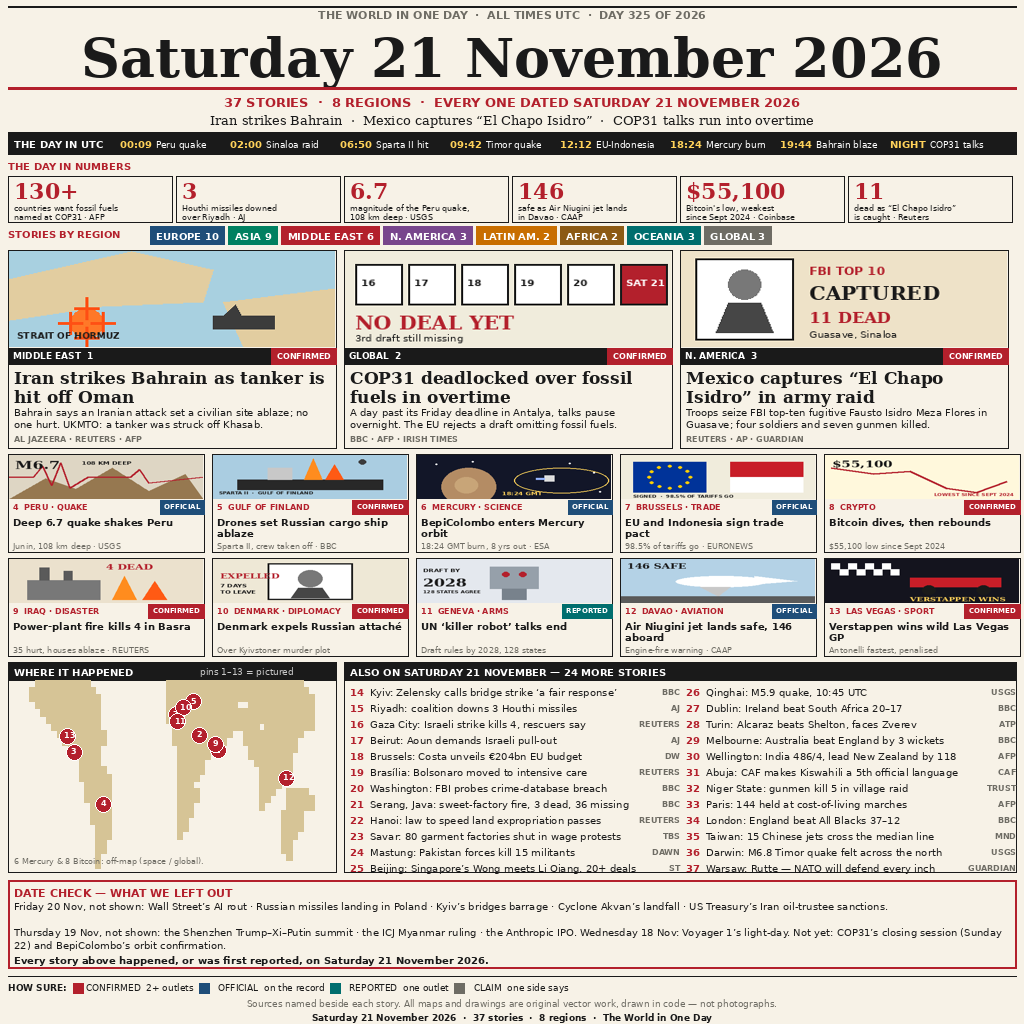
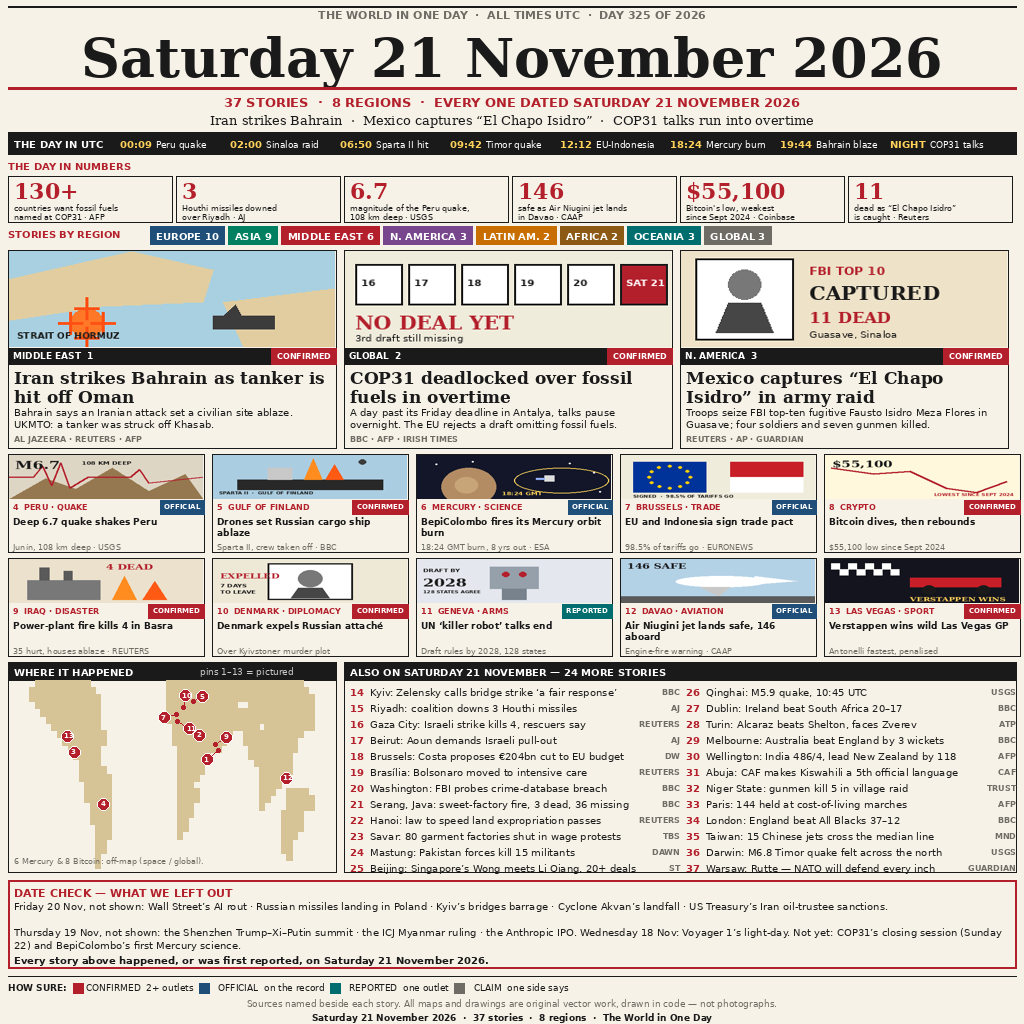
v4: Gemini review fixes — map pin nudges, BepiColombo wording, Costa cut, drop contested casualty claim

diff --git a/build_entry.py b/build_entry.py
@@ -249,7 +249,7 @@ def scene(kind, box):
 HEROES = [
     ("MIDDLE EAST", "1", "CONFIRMED", RED, "gulf",
      "Iran strikes Bahrain as tanker is hit off Oman",
-     "Bahrain says an Iranian attack set a civilian site ablaze; no one hurt. UKMTO: a tanker was struck off Khasab.",
+     "Bahrain says an Iranian attack set a civilian site ablaze. UKMTO: a tanker was struck off Khasab.",
      "AL JAZEERA · REUTERS · AFP"),
     ("GLOBAL", "2", "CONFIRMED", RED, "cop",
      "COP31 deadlocked over fossil fuels in overtime",
@@ -273,7 +273,7 @@ for i, (reg, num, badge, bc, kind, title, body, src) in enumerate(HEROES):
 SEC = [
     ("PERU · QUAKE", "4", "OFFICIAL", BLUE, "quake", "Deep 6.7 quake shakes Peru", "Jun\u00edn, 108 km deep · USGS"),
     ("GULF OF FINLAND", "5", "CONFIRMED", RED, "ship", "Drones set Russian cargo ship ablaze", "Sparta II, crew taken off · BBC"),
-    ("MERCURY · SCIENCE", "6", "OFFICIAL", BLUE, "mercury", "BepiColombo enters Mercury orbit", "18:24 GMT burn, 8 yrs out · ESA"),
+    ("MERCURY · SCIENCE", "6", "OFFICIAL", BLUE, "mercury", "BepiColombo fires its Mercury orbit burn", "18:24 GMT burn, 8 yrs out · ESA"),
     ("BRUSSELS · TRADE", "7", "OFFICIAL", BLUE, "flags", "EU and Indonesia sign trade pact", "98.5% of tariffs go · EURONEWS"),
     ("CRYPTO", "8", "CONFIRMED", RED, "bitcoin", "Bitcoin dives, then rebounds", "$55,100 low since Sept 2024"),
     ("IRAQ · DISASTER", "9", "CONFIRMED", RED, "fire", "Power-plant fire kills 4 in Basra", "35 hurt, houses ablaze · REUTERS"),
@@ -292,8 +292,8 @@ for i, (reg, num, badge, bc, kind, title, src) in enumerate(SEC):
     bw = d.textlength(badge, font=SANSB(7)) + 8
     d.rectangle([x + 196 - bw, y + 46, x + 196, y + 60], fill=bc)
     d.text((x + 196 - bw + 4, y + 48), badge, font=SANSB(7), fill=(255, 255, 255))
-    para(d, x + 5, y + 62, title, SANSB(10), 186, leading=11)
-    d.text((x + 5, y + 87), src, font=SANS(8), fill=GREY)
+    para(d, x + 5, y + 62, title, SANSB(9), 186, leading=11)
+    d.text((x + 5, y + 88), src, font=SANS(8), fill=GREY)
 
 # ---------- world map (coarse land mask, drawn in code) ----------
 MAP = [
@@ -338,11 +338,17 @@ for r, row in enumerate(MAP):
 PINS = {1: (50.6, 26.2), 2: (30.7, 36.9), 3: (-107.4, 25.0), 4: (-75.0, -11.0),
         5: (24.0, 59.8), 7: (4.4, 50.8), 9: (47.8, 30.5), 10: (12.6, 55.7),
         11: (6.1, 46.2), 12: (125.6, 7.1), 13: (-115.1, 36.1)}
+NUDGE = {1: (-11, 9), 9: (11, -7), 7: (-12, 3), 11: (12, 7), 10: (2, -12), 5: (9, -5)}
 for n, (lon, lat) in PINS.items():
     px = MX + (lon + 180) / 360 * MW
     py = MY + (75 - lat) / 130 * MH
-    d.ellipse([px - 8, py - 8, px + 8, py + 8], fill=RED, outline=(255, 255, 255), width=1)
-    d.text((px - 3, py - 6), str(n), font=SANSB(8), fill=(255, 255, 255))
+    dx, dy = NUDGE.get(n, (0, 0))
+    if (dx, dy) != (0, 0):
+        d.line([px, py, px + dx, py + dy], fill=RED, width=1)
+        d.ellipse([px - 2, py - 2, px + 2, py + 2], fill=RED)
+        px, py = px + dx, py + dy
+    d.ellipse([px - 6, py - 6, px + 6, py + 6], fill=RED, outline=(255, 255, 255), width=1)
+    d.text((px - 3, py - 5), str(n), font=SANSB(7), fill=(255, 255, 255))
 d.text((14, 856), "6 Mercury & 8 Bitcoin: off-map (space / global).",
        font=SANS(8), fill=GREY)
 
@@ -352,7 +358,7 @@ ALSO = [
     (15, "Riyadh: coalition downs 3 Houthi missiles", "AJ"),
     (16, "Gaza City: Israeli strike kills 4, rescuers say", "REUTERS"),
     (17, "Beirut: Aoun demands Israeli pull-out", "AJ"),
-    (18, "Brussels: Costa unveils \u20ac204bn EU budget", "DW"),
+    (18, "Brussels: Costa proposes \u20ac204bn cut to EU budget", "DW"),
     (19, "Bras\u00edlia: Bolsonaro moved to intensive care", "REUTERS"),
     (20, "Washington: FBI probes crime-database breach", "BBC"),
     (21, "Serang, Java: sweet-factory fire, 3 dead, 36 missing", "BBC"),
@@ -393,7 +399,7 @@ para(d, 14, 900,
      "Friday 20 Nov, not shown: Wall Street\u2019s AI rout  ·  Russian missiles landing in Poland  ·  Kyiv\u2019s bridges barrage  ·  Cyclone Akvan\u2019s landfall  ·  US Treasury\u2019s Iran oil-trustee sanctions.",
      SANS(10), 996, leading=13)
 para(d, 14, 926,
-     "Thursday 19 Nov, not shown: the Shenzhen Trump\u2013Xi\u2013Putin summit  ·  the ICJ Myanmar ruling  ·  the Anthropic IPO.  Wednesday 18 Nov: Voyager 1\u2019s light-day.  Not yet: COP31\u2019s closing session (Sunday 22) and BepiColombo\u2019s orbit confirmation.",
+     "Thursday 19 Nov, not shown: the Shenzhen Trump\u2013Xi\u2013Putin summit  ·  the ICJ Myanmar ruling  ·  the Anthropic IPO.  Wednesday 18 Nov: Voyager 1\u2019s light-day.  Not yet: COP31\u2019s closing session (Sunday 22) and BepiColombo\u2019s first Mercury science.",
      SANS(10), 996, leading=13)
 d.text((14, 954), "Every story above happened, or was first reported, on Saturday 21 November 2026.",
        font=SANSB(10), fill=INK)

diff --git a/STORIES.md b/STORIES.md
@@ -11,7 +11,7 @@ search on 2026-11-22 plus the public top-10 consensus for this contest.
 3. Mexico — 'El Chapo Isidro' captured, 11 dead (Reuters, 21 Nov)
 4. Peru — M6.7 quake, Junín, 108 km deep, 00:09 UTC (USGS)
 5. Gulf of Finland — drones set Russian cargo ship Sparta II ablaze, 06:50 UTC (BBC)
-6. Mercury — BepiColombo orbit burn 18:24 GMT (ESA)
+6. Mercury — BepiColombo fires its orbit burn 18:24 GMT (ESA; first science still to come)
 7. EU–Indonesia trade pact signed, 98.5% of tariffs go (Euronews)
 8. Bitcoin dives to $55,100 low, then rebounds (Coinbase)
 9. Iraq — Hartha power-plant fire, Basra, 4 dead, 35 hurt (Reuters, 21 Nov)
@@ -22,7 +22,7 @@ search on 2026-11-22 plus the public top-10 consensus for this contest.
 
 ## Also (14–37)
 Kyiv (Zelensky bridge comment), Riyadh (3 Houthi missiles downed), Gaza City
-(4 killed), Beirut (Aoun), Brussels (€204bn EU budget), Brasília (Bolsonaro
+(4 killed), Beirut (Aoun), Brussels (Costa proposes €204bn cut to EU budget), Brasília (Bolsonaro
 to ICU), Washington (FBI database-breach probe), Serang Java (factory fire,
 3 dead, 36 missing), Hanoi (land law), Savar (80 garment factories shut),
 Mastung (15 militants killed), Beijing (Wong–Li Qiang, 20+ deals), Qinghai
